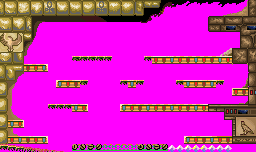
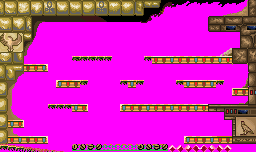
More updated graphics

Changed region(s): [[0.6562, 0.9474, 0.9062, 1.0]]

diff --git a/arm9/source/mmll.h b/arm9/source/mmll.h
@@ -38,6 +38,8 @@
 #include "../build/Background06.h"
 @#include "../build/Background07.h"
 
+#include "../build/Background21.h"
+
 #include "../build/Exit01.h"
 #include "../build/Exit02.h"
 #include "../build/Exit03.h"
